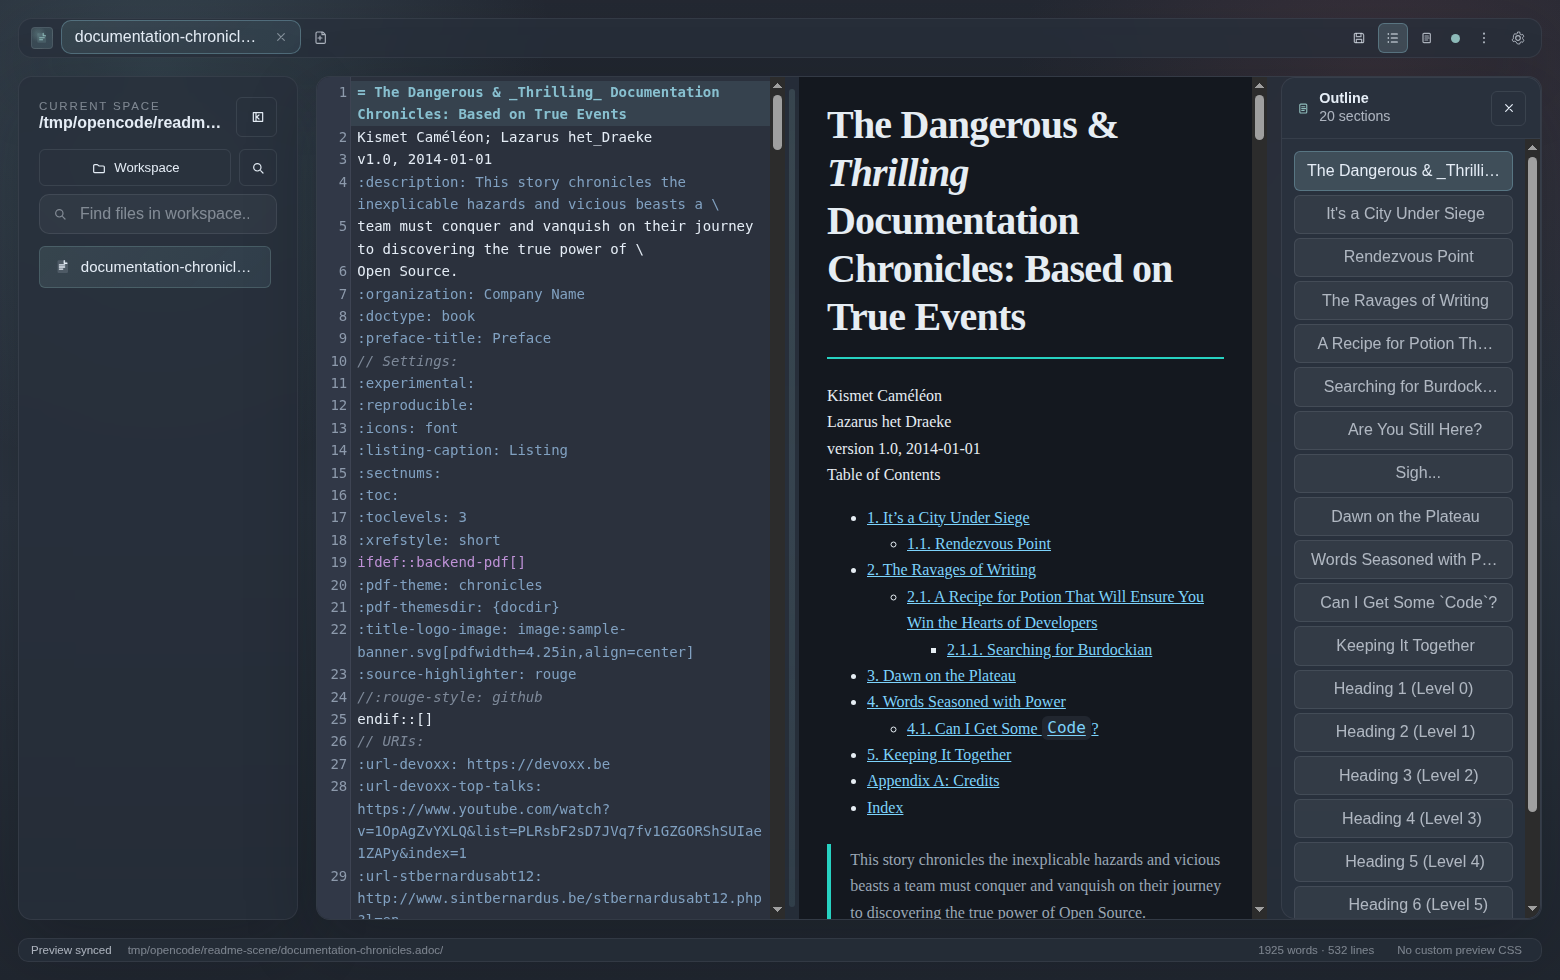
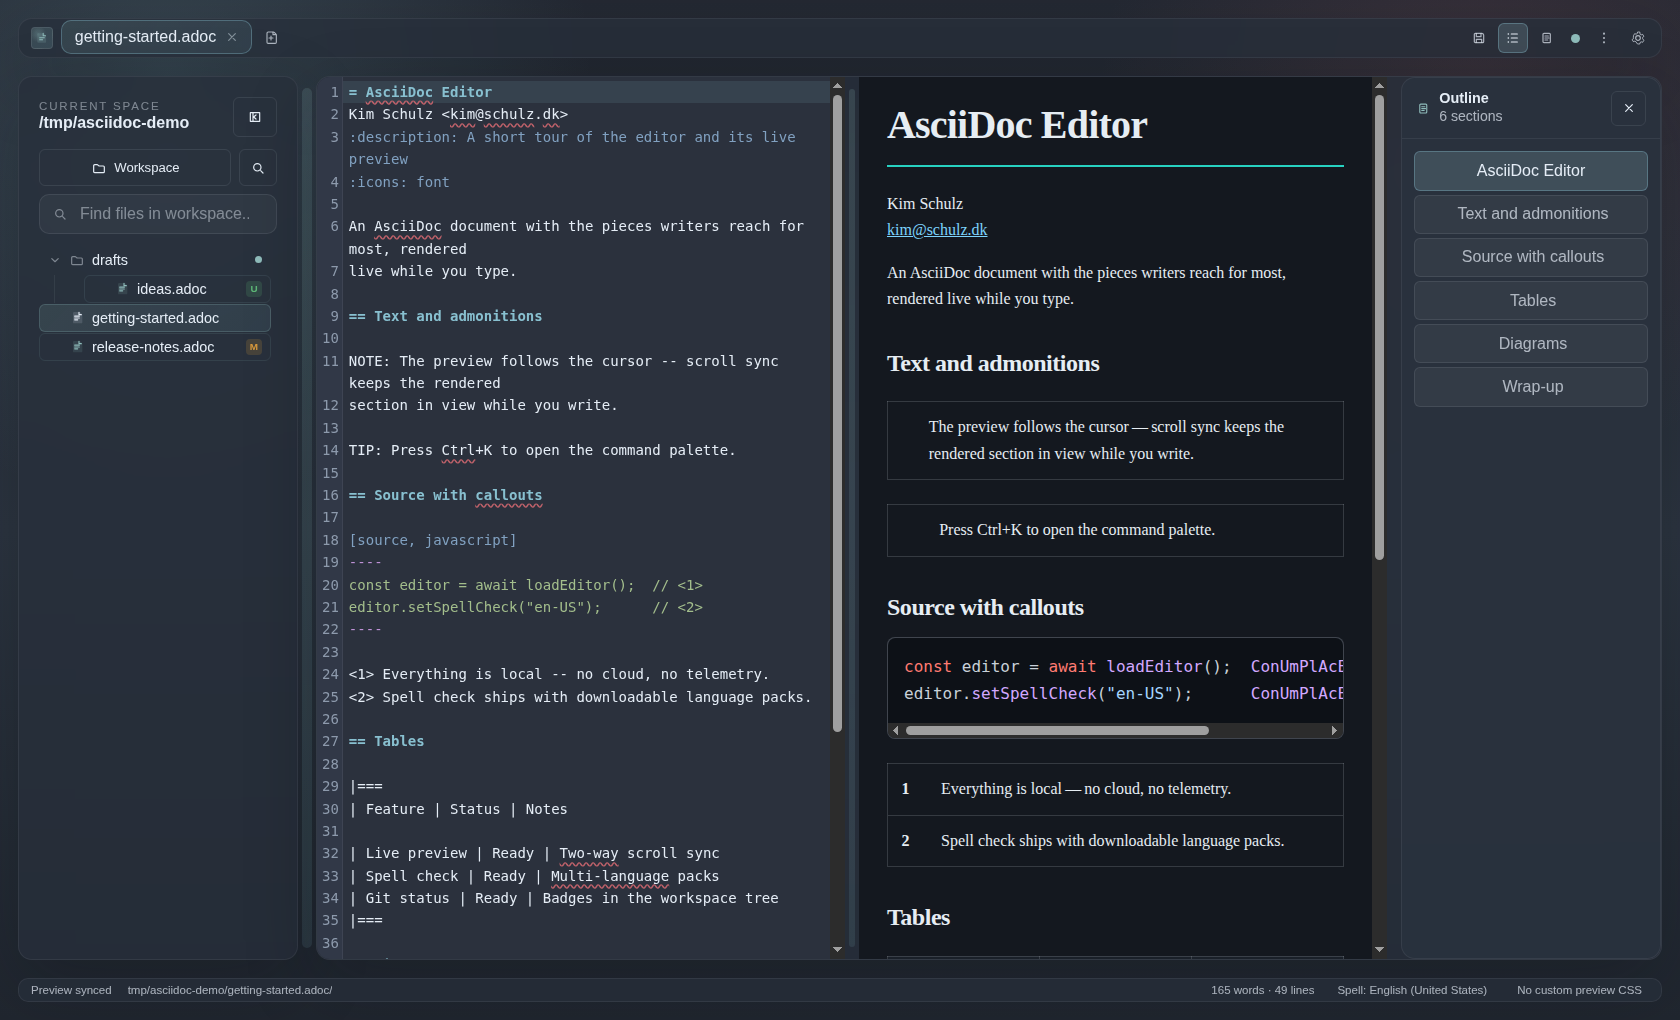
docs(readme): refresh screenshots and feature list for 1.0.0
The hero shot predated the Wave 4/5 work: it showed the old sparse
workspace tree without git status badges, spell check, or snippets.
The README now carries four shots, all reproducible via the new
scripts/readme-shots.mjs (Playwright driving the real app against a
staged demo git workspace at /tmp/asciidoc-demo, isolated profiles,
theme seeded via state.json):

- assets/screenshot.png: refreshed hero, dark theme, tree with git
  badges, cursor mid-document so the preview shows the table section
- assets/screenshot-git-commit.png: stage/commit panel with Staged
  and Changes sections
- assets/screenshot-git-diff.png: diff view against HEAD
- assets/screenshot-theme-porcelain.png: same document in the
  Porcelain light theme

Also:

- build/icon.svg now matches the About-box mark (teal gradient tile,
  A monogram) so the README logo and the in-app logo agree
- Highlights updated with the Wave 4/5 features: git integration,
  spell check with language packs, snippets, typewriter scrolling,
  focus dimming, Mermaid diagrams, paginated PDF export
- tests/ project-structure line no longer describes the pre-e2e suite

diff --git a/README.md b/README.md
@@ -12,10 +12,42 @@ AsciiDoc Editor is a standalone desktop app for writing and editing AsciiDoc wit
 
 It is built with Electron and Vite, and uses `asciidoctor.js` for standards-based AsciiDoc rendering.
 
+## Screenshots
+
+The editor in the default dark theme, with the workspace tree showing live git status badges:
+
+<p align="center">
+  <img src="https://raw.githubusercontent.com/kimusan/asciidoc-editor/main/assets/screenshot.png" alt="Editor with git status badges in the workspace tree" width="860" />
+</p>
+
+Built-in git integration — stage and commit changes without leaving the editor:
+
+<p align="center">
+  <img src="https://raw.githubusercontent.com/kimusan/asciidoc-editor/main/assets/screenshot-git-commit.png" alt="Git commit panel" width="860" />
+</p>
+
+Compare the open document against the version committed in git:
+
+<p align="center">
+  <img src="https://raw.githubusercontent.com/kimusan/asciidoc-editor/main/assets/screenshot-git-diff.png" alt="Git diff view" width="860" />
+</p>
+
+Light themes are included too — here is the same document in Porcelain:
+
+<p align="center">
+  <img src="https://raw.githubusercontent.com/kimusan/asciidoc-editor/main/assets/screenshot-theme-porcelain.png" alt="Editor in the Porcelain light theme" width="860" />
+</p>
+
 ## Highlights
 
 - Live source + preview editing with resizable split view and two-way scroll sync
+- Built-in git integration: status badges in the workspace tree, a diff view against HEAD, and a stage-and-commit panel
 - AsciiDoc autocomplete: block templates, source languages, document attributes, and macros
+- Snippet expansion in the editor for frequently used markup
+- Spell checking with downloadable language packs
+- Typewriter scrolling and paragraph focus dimming for distraction-free writing
+- Mermaid diagram rendering in the preview
+- Paginated PDF export via Paged.js, alongside HTML and DocBook 5
 - Command palette (Ctrl+K / Ctrl+Shift+P) for actions, open tabs, the outline, and workspace files
 - Compact interface with a slim toolbar, status bar, and optional classic menu bar (Alt)
 - Built-in themes for the app and editor; the preview can be kept light or dark independently of the app theme
@@ -25,7 +57,6 @@ It is built with Electron and Vite, and uses `asciidoctor.js` for standards-base
 - Workspace browser with recursive filtering and drag-to-insert assets
 - Workspace-wide search and replace across project files
 - Built-in searchable markup reference with snippet insertion
-- Export to HTML, PDF, and DocBook 5
 - Portable `.adp` project files with project/session restore
 - Automatic update checks, with in-app self-updates on supported platforms
 - Packaging: Linux AppImage, `.deb`, `.rpm`, and `.pacman`; Windows installer, portable `.exe`, and `.zip`
@@ -34,7 +65,7 @@ It is built with Electron and Vite, and uses `asciidoctor.js` for standards-base
 
 - `electron/`: Electron main process, preload bridge, rendering/export helpers, app state
 - `src/`: Renderer UI (Vite), editor integration, syntax support, styles
-- `tests/`: Node-based tests for rendering and preview link handling
+- `tests/`: Unit tests for rendering and services, plus Playwright end-to-end tests driving the packaged layout
 - `tools/`: Windows/Linux helpers for `.adp` file association
 
 ## Development
